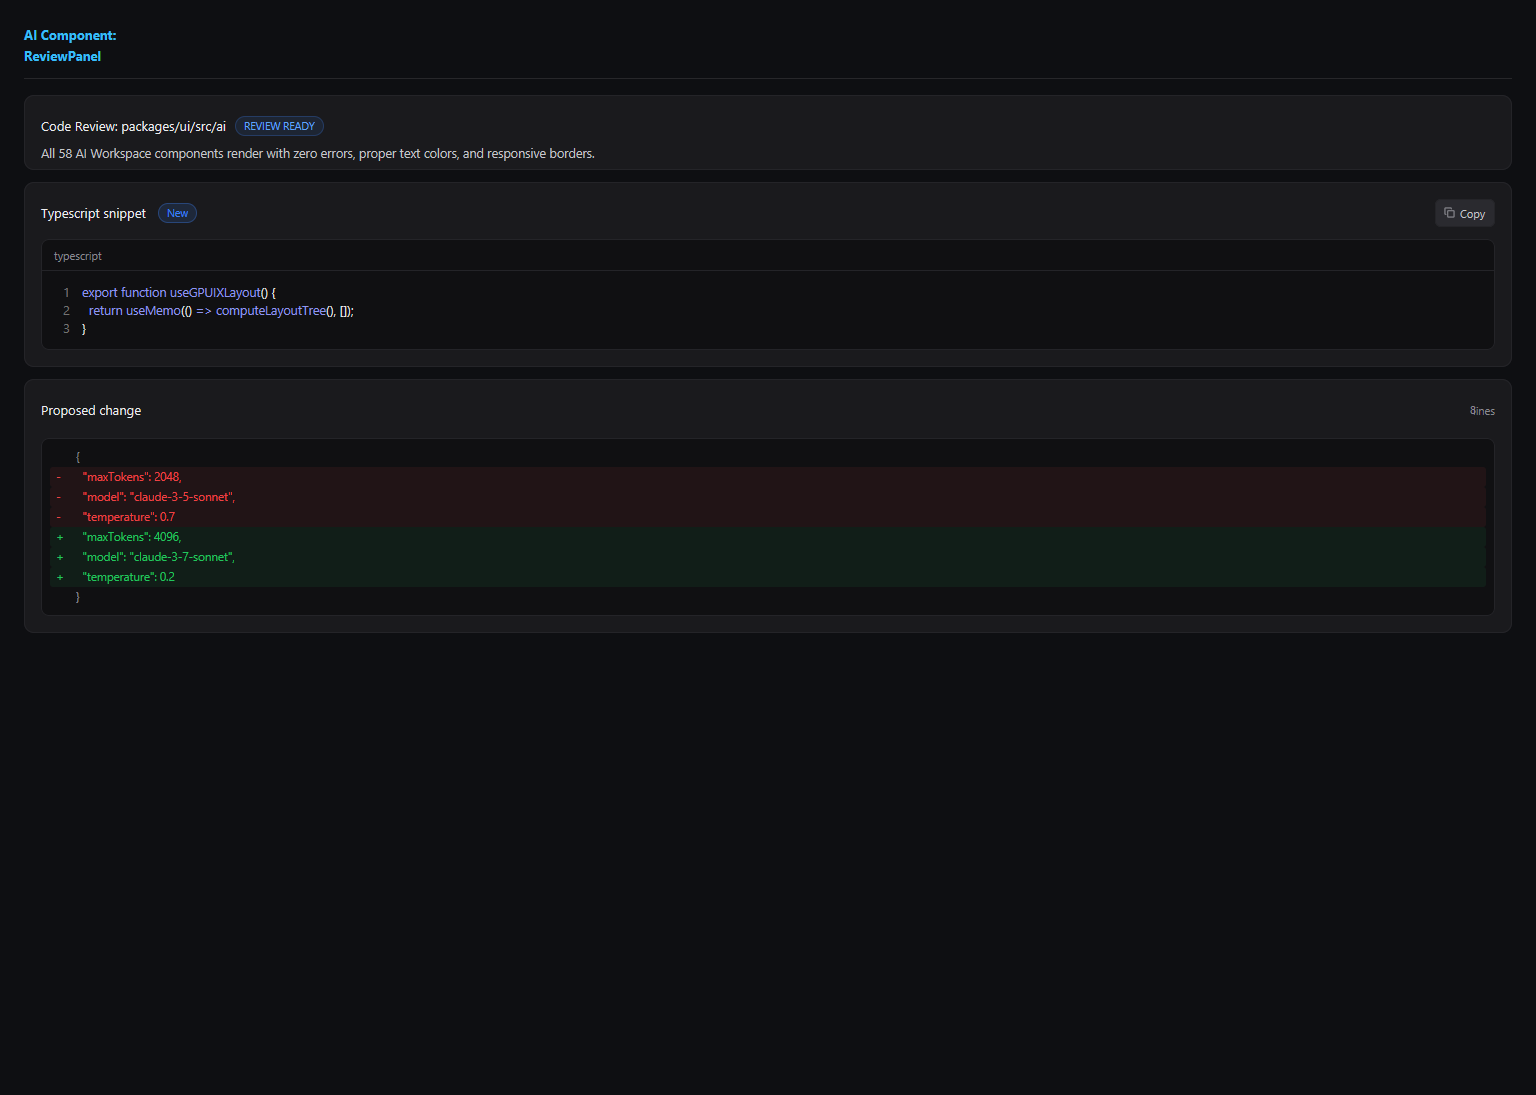
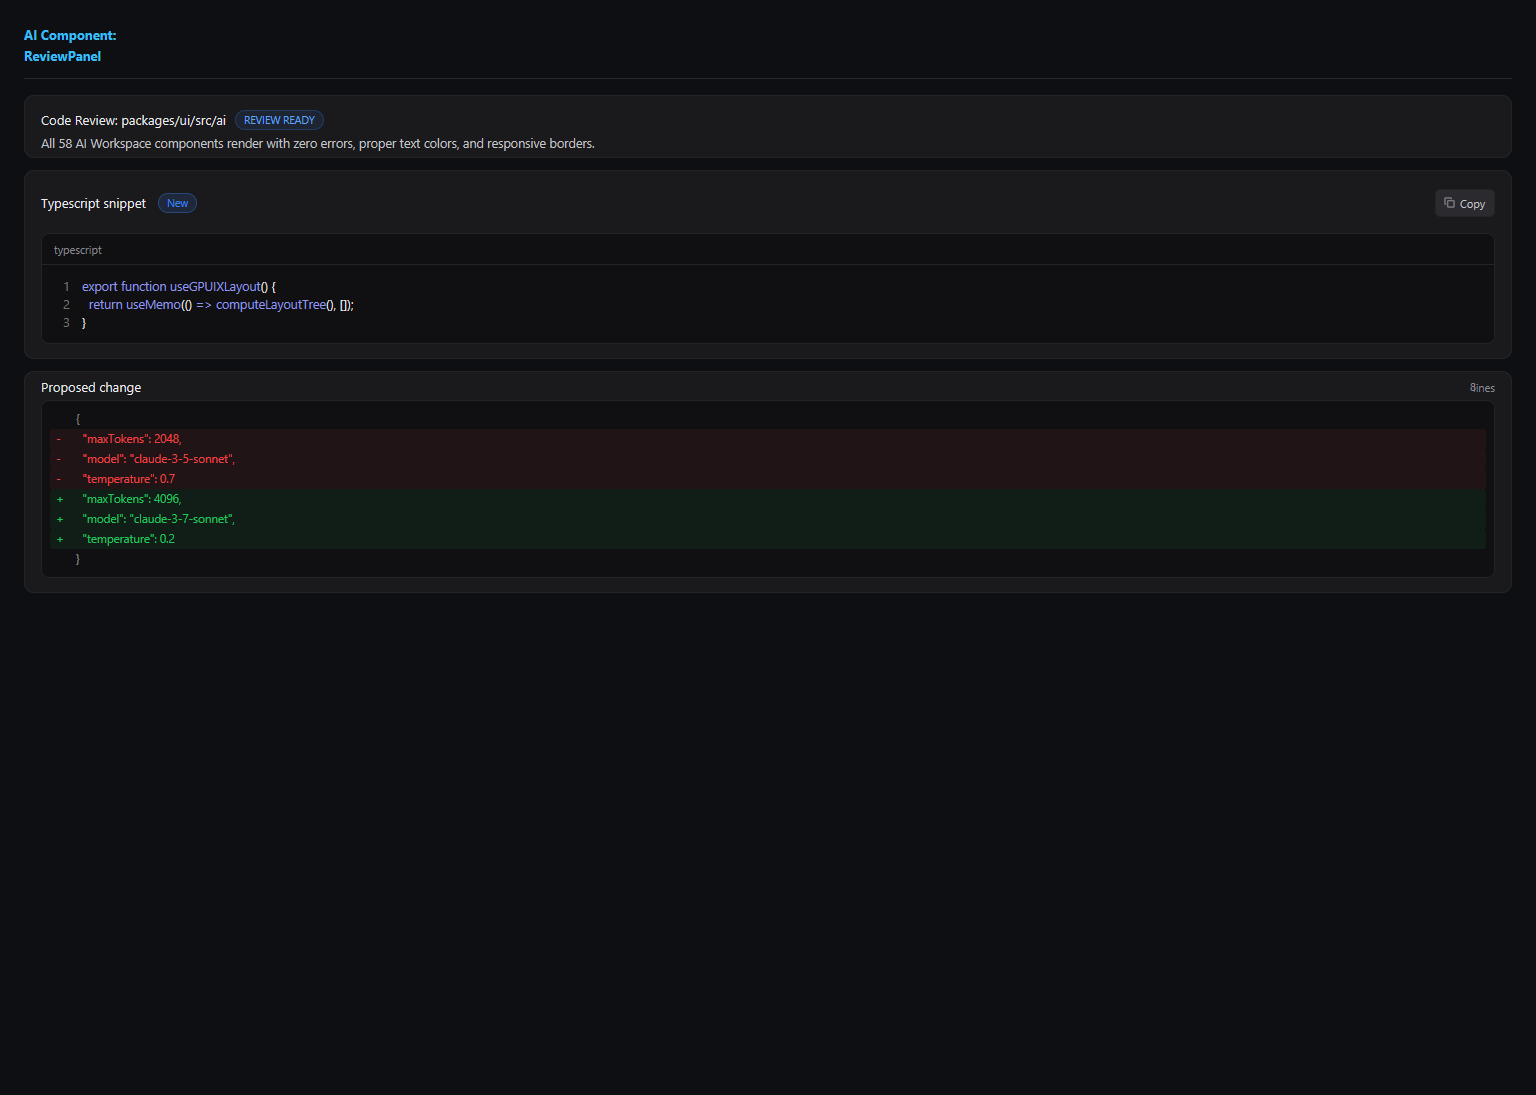
fix(ai): polish ResponseComparer headers and ReviewPanel card margins

Changed region(s): [[0.0312, 0.0932, 0.375, 0.3105], [0.0312, 0.3416, 0.1562, 0.5279], [0.9375, 0.1863, 0.9688, 0.2174]]

diff --git a/packages/ui/src/ai/ConfigDiffReview.tsx b/packages/ui/src/ai/ConfigDiffReview.tsx
@@ -18,16 +18,17 @@ const toText = (v: string | unknown): string => (typeof v === 'string' ? v : JSO
 
 export function ConfigDiffReview({ before, after, title = 'Proposed change', acceptLabel = 'Accept', rejectLabel = 'Reject', onAccept, onReject }: ConfigDiffReviewProps) {
   const lines = diffLines(toText(before ?? ''), toText(after ?? ''))
+  const scrollable = lines.length > 12
   const color = { add: '#22C55E', del: '#ED4245', keep: '#8A8A90' } as const
   const prefix = { add: '+', del: '-', keep: ' ' } as const
 
   return (
-    <div style={{ display: 'flex', flexDirection: 'column', gap: 12, padding: 16, borderRadius: 10, borderWidth: 1, borderColor: border.subtle, backgroundColor: surface.card }}>
-      <div style={{ display: 'flex', flexDirection: 'row', alignItems: 'center', justifyContent: 'space-between', height: 28 }}>
+    <div style={{ display: 'flex', flexDirection: 'column', gap: 12, flexGrow: 0, flexShrink: 0, alignSelf: 'flex-start', width: '100%', paddingLeft: 16, paddingRight: 16, paddingTop: 14, paddingBottom: 14, borderRadius: 10, borderWidth: 1, borderColor: border.subtle, backgroundColor: surface.card }}>
+      <div style={{ display: 'flex', flexDirection: 'row', alignItems: 'center', justifyContent: 'space-between' }}>
         <text style={{ fontSize: 13, fontWeight: 600, color: t.primary, fontFamily: FONT, lineHeight: 1 }}>{title}</text>
         <text style={{ fontSize: 11, color: t.muted, fontFamily: FONT, lineHeight: 1 }}>{lines.length} lines</text>
       </div>
-      <div style={{ display: 'flex', flexDirection: 'column', marginTop: 2, maxHeight: 260, overflowY: 'scroll', backgroundColor: surface.code, borderRadius: 8, padding: 8, borderWidth: 1, borderColor: border.subtle }}>
+      <div style={{ ...(scrollable ? { maxHeight: 260, overflowY: 'scroll' as const } : {}), backgroundColor: surface.code, borderRadius: 8, padding: 8, borderWidth: 1, borderColor: border.subtle }}>
         {lines.map((l, i) => (
           <div
             key={i}

diff --git a/packages/ui/src/ai/GeneratedCodeCard.tsx b/packages/ui/src/ai/GeneratedCodeCard.tsx
@@ -27,16 +27,17 @@ const STATUS_COLOR: Record<GeneratedCodeStatus, string> = { pending: '#3B82F6', 
 
 export function GeneratedCodeCard({ code, language, title, status = 'pending', onApply, onCopy }: GeneratedCodeCardProps) {
   const displayTitle = title || (language ? `${language.charAt(0).toUpperCase() + language.slice(1)} snippet` : 'Generated snippet')
+  const scrollable = code.split('\n').length > 12
   return (
-    <div style={{ display: 'flex', flexDirection: 'column', gap: 12, padding: 16, borderRadius: 10, borderWidth: 1, borderColor: border.subtle, backgroundColor: surface.card }}>
-      <div style={{ display: 'flex', flexDirection: 'row', alignItems: 'center', gap: 12 }}>
+    <div style={{ display: 'flex', flexDirection: 'column', gap: 12, flexGrow: 0, flexShrink: 0, paddingLeft: 16, paddingRight: 16, paddingTop: 14, paddingBottom: 14, borderRadius: 10, borderWidth: 1, borderColor: border.subtle, backgroundColor: surface.card }}>
+      <div style={{ display: 'flex', flexDirection: 'row', alignItems: 'center', gap: 12, paddingTop: 4, paddingBottom: 4 }}>
         <text style={{ fontSize: 13, fontWeight: 600, color: textTokens.primary, fontFamily: FONT, lineHeight: 1 }}>{displayTitle}</text>
         <Badge variant="label" label={STATUS_LABEL[status] ?? 'New'} color={STATUS_COLOR[status] ?? '#3B82F6'} />
         <div style={{ flexGrow: 1 }} />
         {status === 'pending' && onApply ? <CopyButton value={code} onCopy={onApply} label="Apply" copiedLabel="Applied" /> : null}
         <CopyButton value={code} onCopy={onCopy} />
       </div>
-      <SyntaxCodeBlock code={code} language={language} showLineNumbers maxHeight={280} />
+      <SyntaxCodeBlock code={code} language={language} showLineNumbers maxHeight={scrollable ? 280 : undefined} />
     </div>
   )
 }

diff --git a/packages/ui/src/ai/ReviewPanel.tsx b/packages/ui/src/ai/ReviewPanel.tsx
@@ -18,10 +18,10 @@ export interface ReviewPanelProps {
 export function ReviewPanel({ title, feedback, code, language, configBefore, configAfter, onApply, onReject }: ReviewPanelProps) {
   const hasDiffs = code !== undefined || (configBefore !== undefined && configAfter !== undefined)
   return (
-    <div style={{ display: 'flex', flexDirection: 'column', gap: 12, width: '100%' }}>
+    <div style={{ display: 'flex', flexDirection: 'column', gap: 12, width: '100%', alignSelf: 'flex-start' }}>
       {(title || feedback || !hasDiffs) && (
-        <div style={{ display: 'flex', flexDirection: 'column', gap: 12, padding: 16, borderRadius: 10, borderWidth: 1, borderColor: border.subtle, backgroundColor: surface.card }}>
-          <div style={{ display: 'flex', flexDirection: 'row', alignItems: 'center', justifyContent: 'space-between', height: 28 }}>
+        <div style={{ display: 'flex', flexDirection: 'column', gap: 12, flexGrow: 0, flexShrink: 0, paddingLeft: 16, paddingRight: 16, paddingTop: 14, paddingBottom: 14, borderRadius: 10, borderWidth: 1, borderColor: border.subtle, backgroundColor: surface.card }}>
+          <div style={{ display: 'flex', flexDirection: 'row', alignItems: 'center', justifyContent: 'space-between' }}>
             <div style={{ display: 'flex', flexDirection: 'row', alignItems: 'center', gap: 8 }}>
               <text style={{ fontSize: 13, fontWeight: 600, color: t.primary, fontFamily: FONT, lineHeight: 1 }}>{title ?? 'Code Review'}</text>
               <div style={{ display: 'flex', flexDirection: 'row', alignItems: 'center', justifyContent: 'center', backgroundColor: '#3B82F61A', borderWidth: 1, borderColor: '#3B82F640', borderRadius: 10, paddingLeft: 8, paddingRight: 8, height: 20 }}>

diff --git a/packages/ui/src/ai/ResponseComparer.tsx b/packages/ui/src/ai/ResponseComparer.tsx
@@ -32,7 +32,7 @@ function Pane({ r, onCopy }: { r?: ComparableResponse; onCopy?: (id: string, con
   }
   return (
     <div style={{ display: 'flex', flexDirection: 'column', height: 180, borderRadius: 10, borderWidth: 1, borderColor: border.subtle, backgroundColor: surface.card, overflow: 'hidden' }}>
-      <div style={{ paddingLeft: 12, paddingRight: 8, paddingTop: 10, paddingBottom: 10, display: 'flex', flexDirection: 'row', alignItems: 'center', justifyContent: 'space-between', borderBottomWidth: 1, borderColor: border.subtle }}>
+      <div style={{ paddingLeft: 12, paddingRight: 8, paddingTop: 12, paddingBottom: 12, display: 'flex', flexDirection: 'row', alignItems: 'center', justifyContent: 'space-between', borderBottomWidth: 1, borderColor: border.subtle }}>
         <text style={{ fontSize: 12.5, fontWeight: 600, color: textTokens.primary, fontFamily: FONT, lineHeight: 1 }}>{r.label ?? 'Response'}</text>
         <CopyButton value={r.content ?? ''} onCopy={onCopy ? () => onCopy(r.id, r.content ?? '') : undefined} />
       </div>
